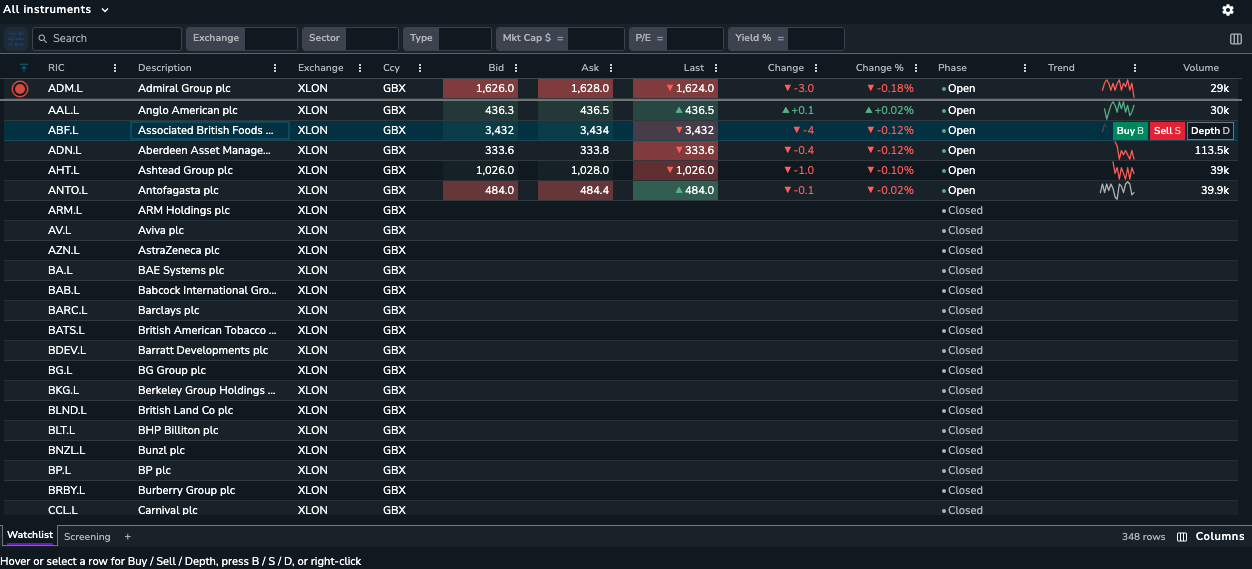
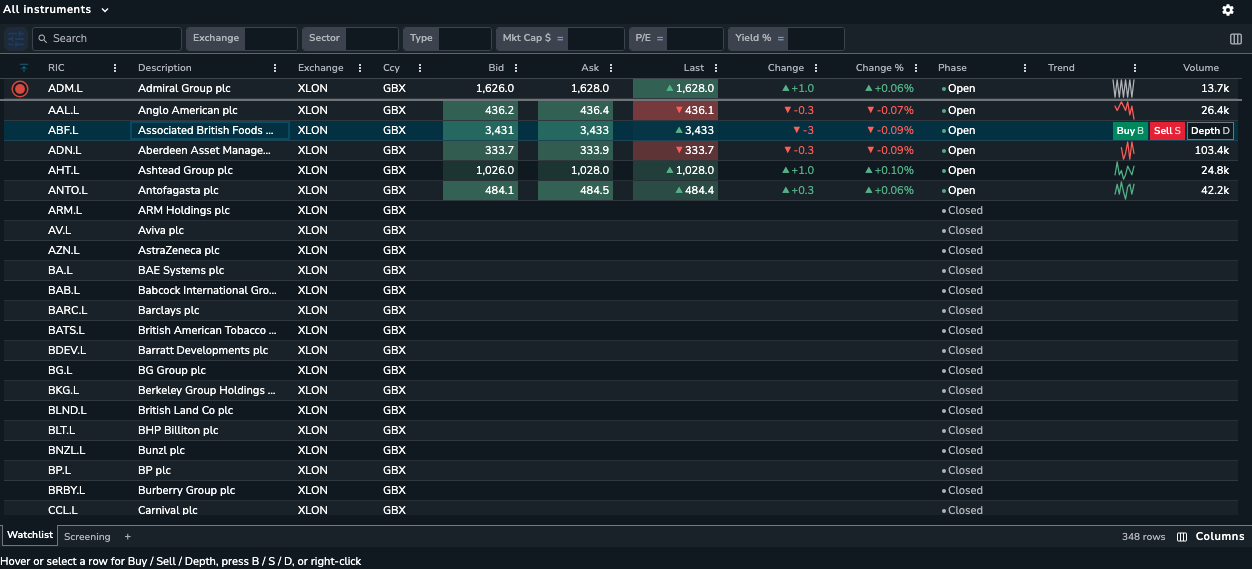
Instrument grid footer: no indicator bar on the selected column-set tab
Its surface and borders mark it; unselected tabs keep the neutral hover
underline.

diff --git a/packages/trading-ui/src/components/InstrumentGrid/InstrumentGrid.css b/packages/trading-ui/src/components/InstrumentGrid/InstrumentGrid.css
@@ -159,7 +159,7 @@
   padding-top: 1px;
 }
 
-/* column-set tabs: text tabs, the active one underlined */
+/* column-set tabs: text tabs; the active one on the grid surface, bordered */
 .tradingInstrumentGridFooter-tabs {
   gap: var(--salt-spacing-50);
   padding-inline: var(--salt-spacing-50);
@@ -190,7 +190,10 @@
   background: transparent;
 }
 
-.tradingInstrumentGridFooter-tab:hover::after {
+/* the selected tab needs none: its surface and borders mark it */
+.tradingInstrumentGridFooter-tab:not(
+    .tradingInstrumentGridFooter-tabSelected
+  ):hover::after {
   background: var(--salt-navigable-indicator-hover);
 }
 
@@ -205,10 +208,6 @@
   background: var(--salt-container-primary-background);
   color: var(--salt-content-primary-foreground);
   font-weight: var(--salt-text-fontWeight-strong);
-}
-
-.tradingInstrumentGridFooter .tradingInstrumentGridFooter-tabSelected::after {
-  background: var(--salt-navigable-indicator-active);
 }
 
 .tradingInstrumentGridFooter-newSet {

diff --git a/docs/components/instrument-grid.md b/docs/components/instrument-grid.md
@@ -79,7 +79,7 @@ Buy, Sell and Depth sit at the right edge of a row, in a narrow client-side colu
 
 One 22px row under the table (linked instruments show in the link column and the workspace ChannelPicker, so the footer does not repeat them):
 
-- **Column-set tabs** on the left, text tabs; the active one is on the grid's surface (`--salt-container-primary-background`), moved up 1px over the footer's top border with that border down its sides and along its bottom, so the line runs along the footer and round the tab, and underlined (`--salt-navigable-indicator-active`): click, or Left / Right arrows on a focused tab, to show a set. "+" saves the columns in view as a new set, named in a prompt.
+- **Column-set tabs** on the left, text tabs; the active one is on the grid's surface (`--salt-container-primary-background`), moved up 1px over the footer's top border with that border down its sides and along its bottom, so the line runs along the footer and round the tab (no indicator bar); other tabs show a neutral underline on hover: click, or Left / Right arrows on a focused tab, to show a set. "+" saves the columns in view as a new set, named in a prompt.
 - **Row count**: the rows in the body, "N rows", kept current from the data source's `resize` events. Under a filter-bar filter it is the filtered count, bold with a filter icon; the server sends no unfiltered total, so it is never "x of y". Pinned rows are not counted.
 - **Columns** on the right opens the vuu column picker.
 
